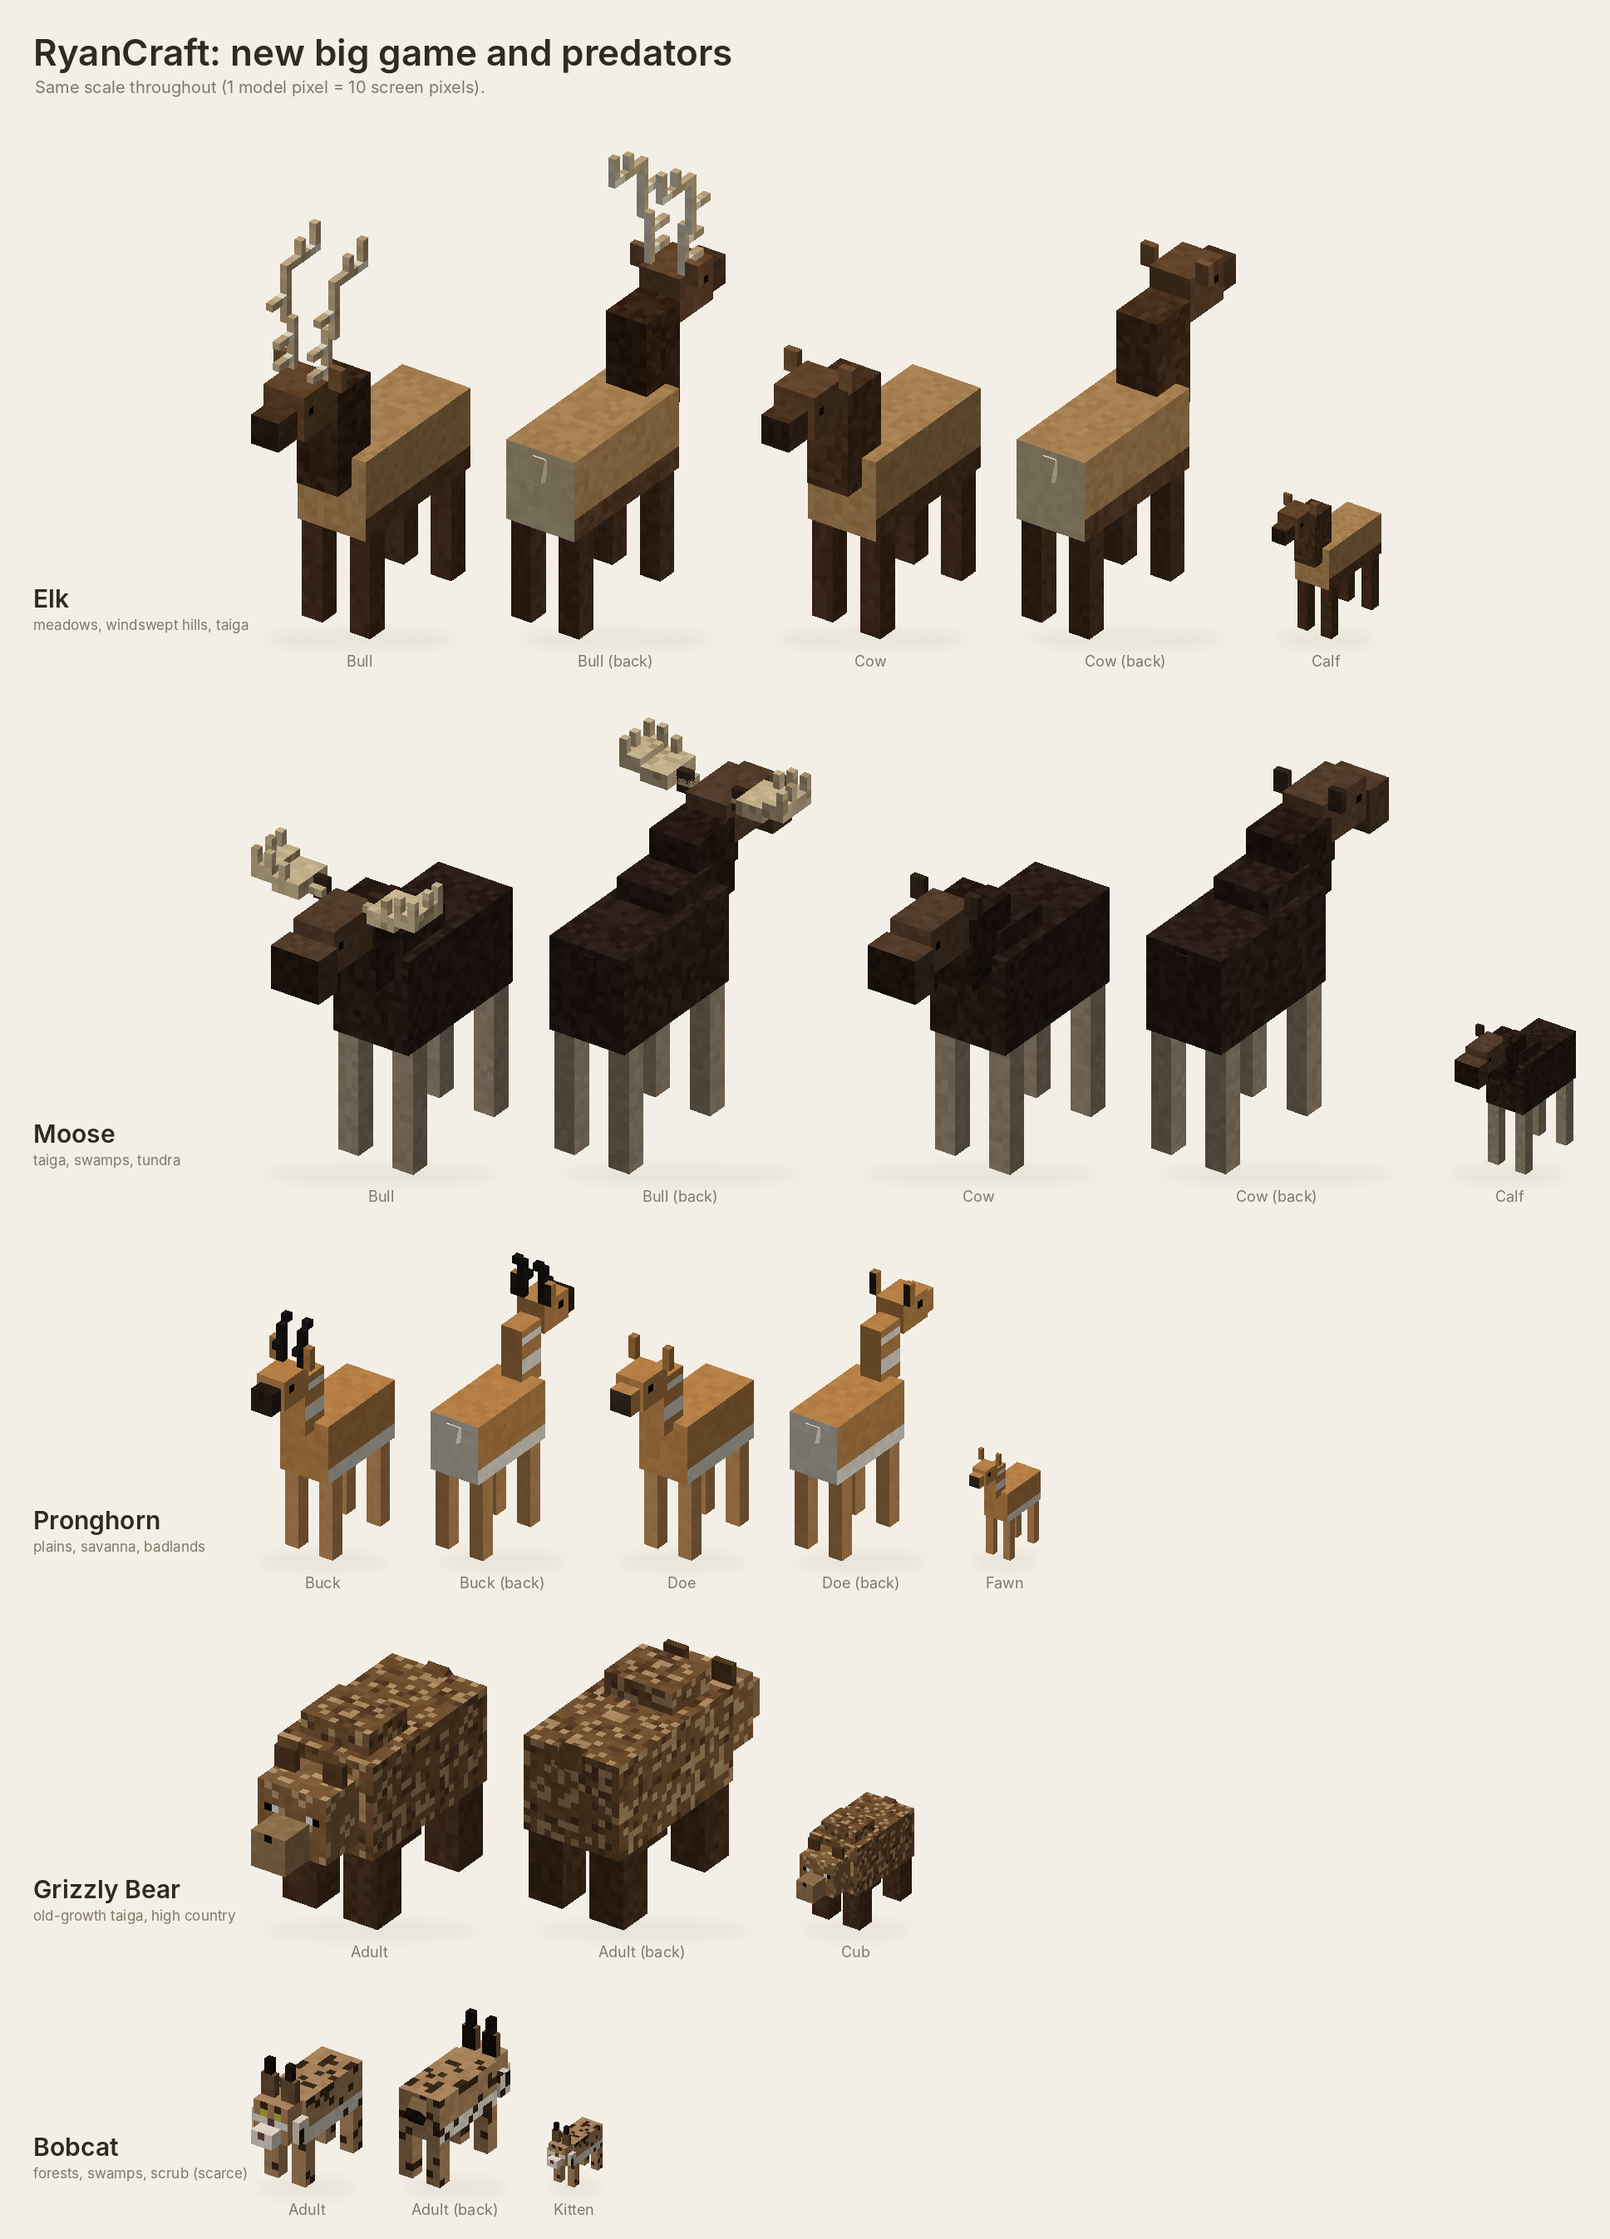
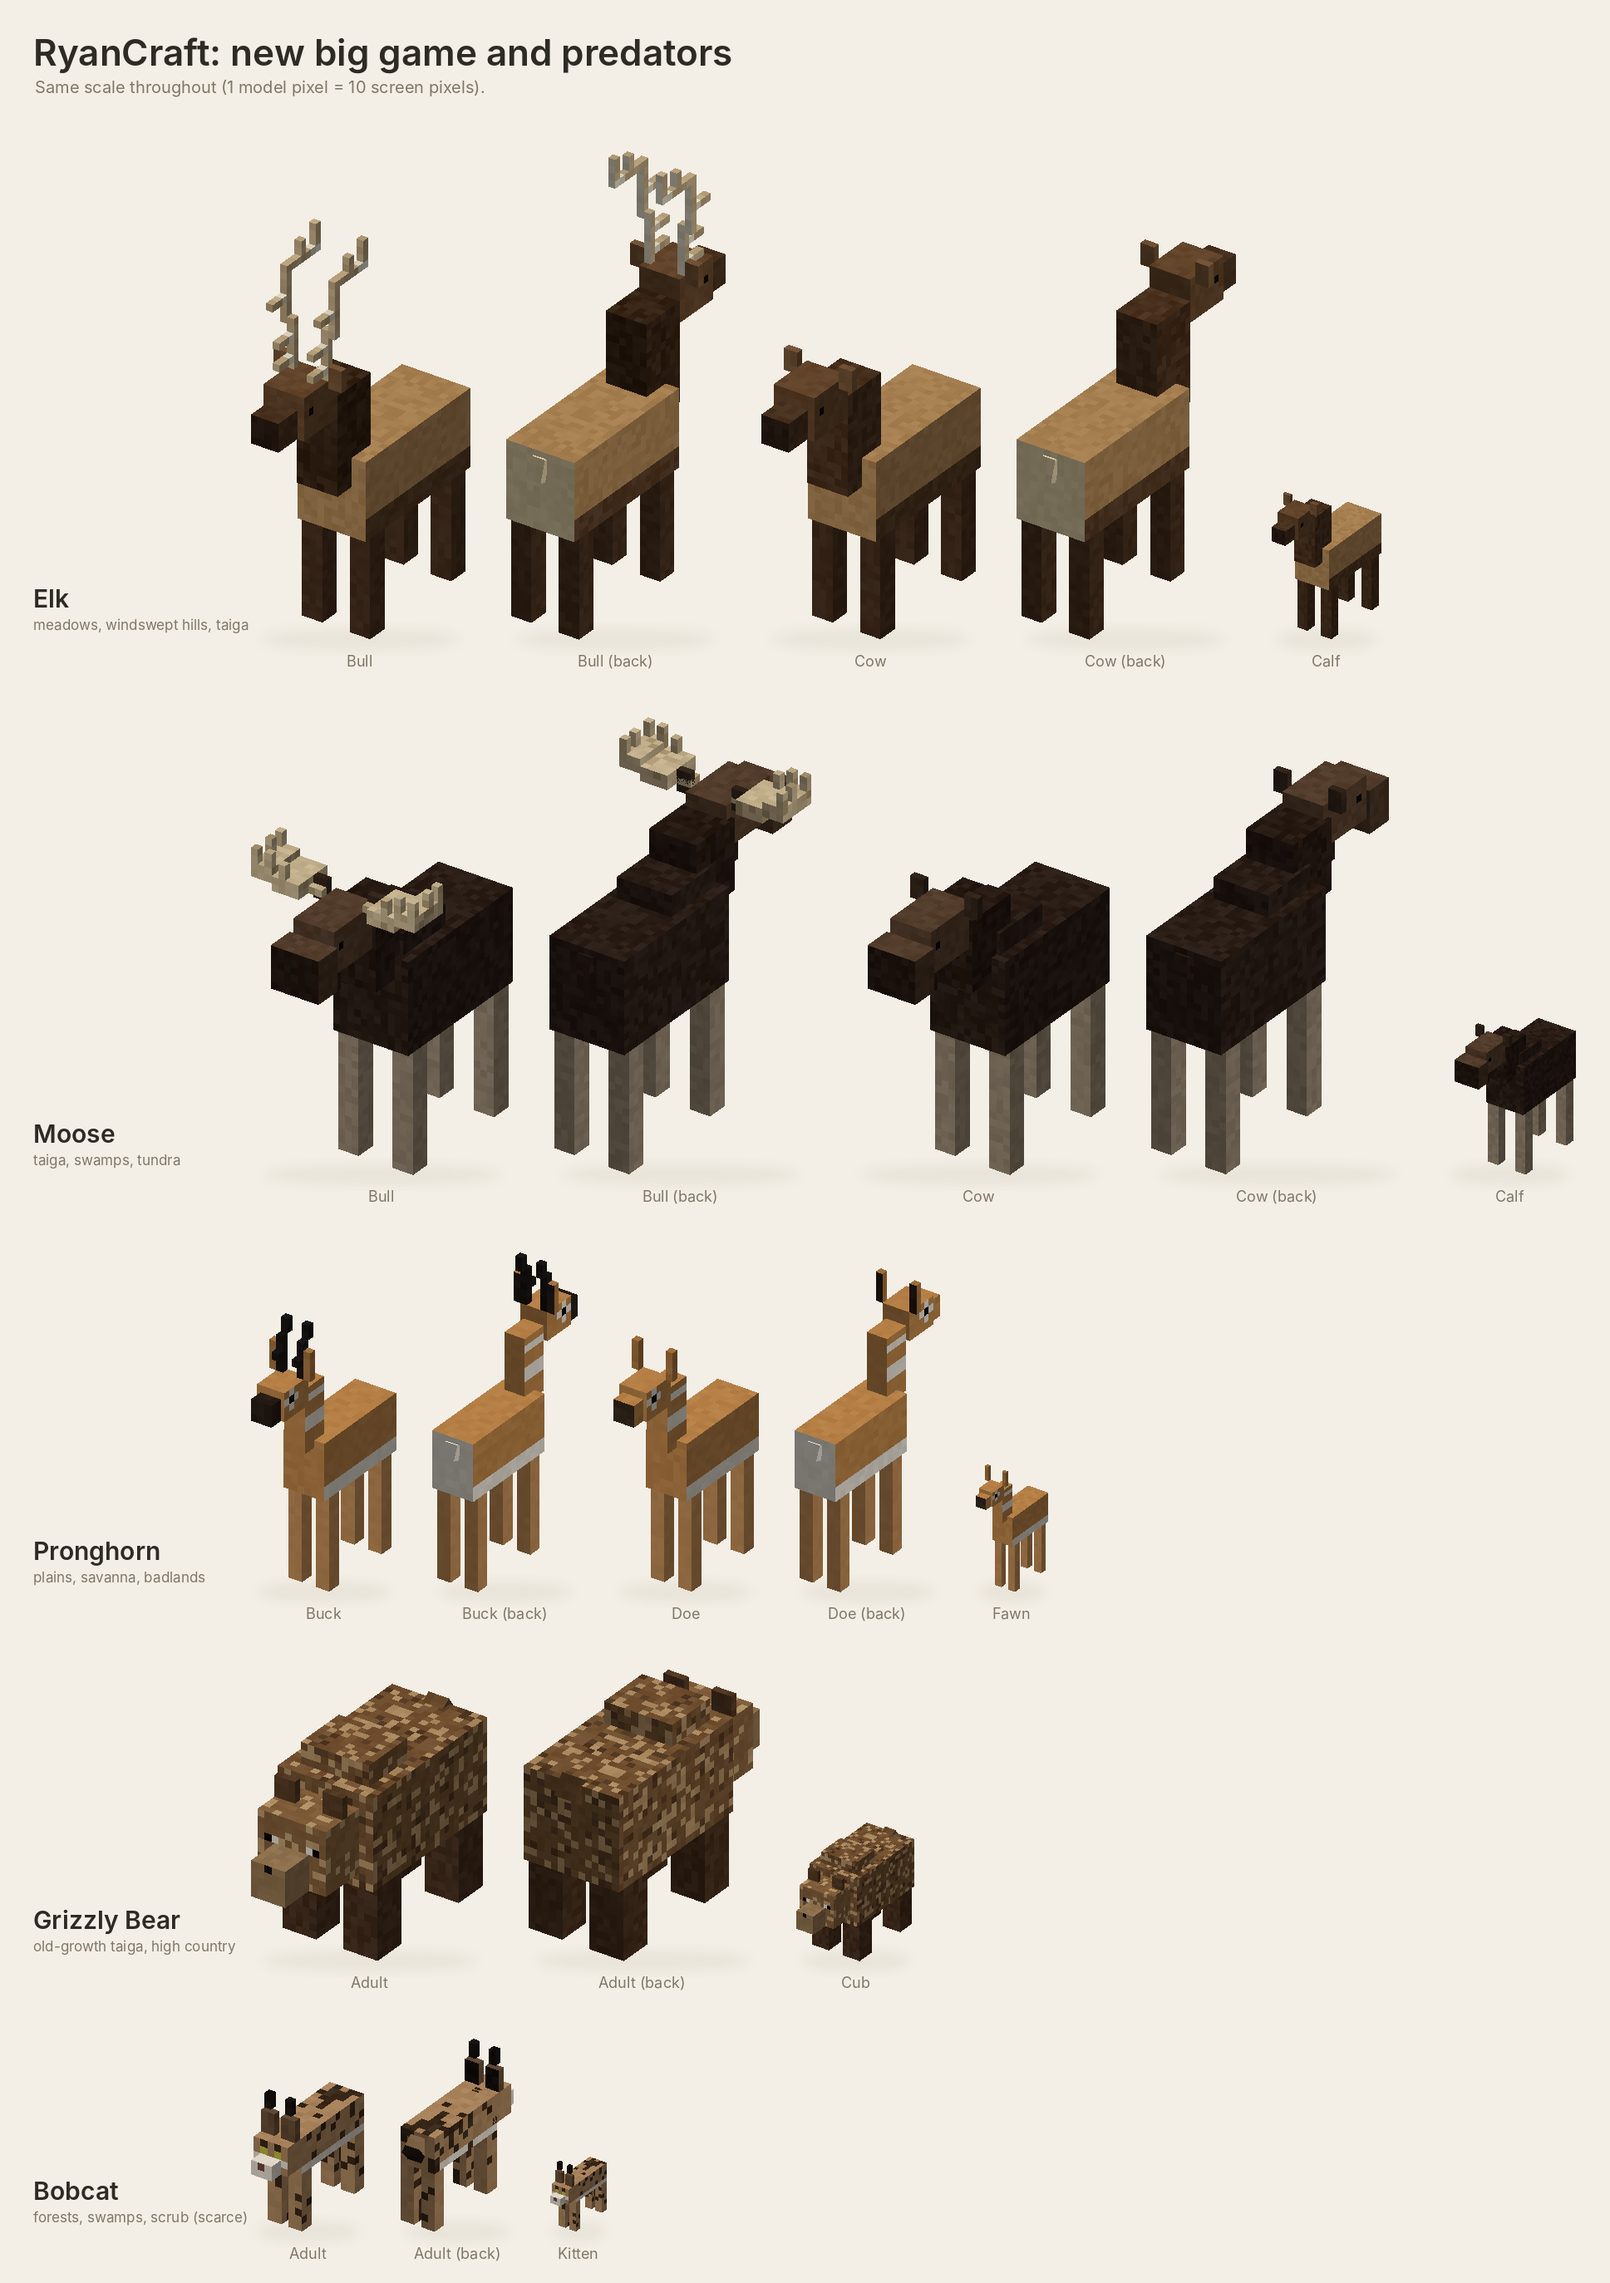
Pronghorn: racer build; bobcat: lanky build
Longer-legged pronghorn with tall ears and white-ringed eyes, and a slimmer,
long-legged bobcat. Hitboxes raised to match.

Claude-Session: https://claude.ai/code/session_01M5QtgiQGYPBXfdb72XCowG

diff --git a/tools/big_game.py b/tools/big_game.py
@@ -64,19 +64,18 @@ moose = cervid((11, 13, 22), (3, 17), -5,
 
 # ---- pronghorn: slim and fast, tan over white, white neck bands, short black pronged horns
 PRONG_HORN = [((-2, -8, -4), (1, 5, 1)), ((-2, -6, -5), (1, 1, 1)), ((-2, -9, -3), (1, 1, 1))]
-pronghorn = cervid((7, 8, 14), (2, 11), -6,
-                   neck=((-1.5, -1, -3), (3, 8, 4)), head=((-2, -3, -8), (4, 4, 5)), snout=((-1.5, -2, -10), (3, 3, 2)),
-                   ears=((-3, -6, -4), (1, 3, 1)), tail=((-1, 0, 0), (2, 2, 1), 0.4),
-                   extra_head=mirror(PRONG_HORN, "horn", "horn"))
+pronghorn = cervid((6, 8, 15), (2, 13), -7,          # "racer": long legs, tall ears
+                   neck=((-1.5, -1, -3), (3, 9, 4)), head=((-2, -3, -8), (4, 4, 5)), snout=((-1.5, -2, -10), (3, 3, 2)),
+                   ears=((-3, -7, -4), (1, 4, 1)), tail=((-1, 0, 0), (2, 2, 1), 0.4),
+                   extra_head=mirror(PRONG_HORN + [((-2, -10, -3), (1, 1, 1))], "horn", "horn"))
 
 # ---- grizzly: bigger than the black bear, with the shoulder hump and a dished face
 grizzly = quad((14, 13, 24), (5, 10), (10, 9, 8), snout=(5, 5, 5), ears=(3, 3), tail=(3, 3, 2, 0.6), head_up=-2)
 grizzly[0]["boxes"].append(box("hump", (-5, -9.5, -10), (10, 3, 8), "body"))
 
-# ---- bobcat: a lynx-faced wildcat with tufted ears, cheek ruffs and a stubby tail
-bobcat = quad((6, 6, 12), (2, 6), (5, 5, 4), snout=(3, 2, 2), ears=(2, 3), tail=(2, 2, 3, -0.7), leg_inset=0, extra_head=[
-    box("tuft_r", (-2, -7.5, -2.5), (1, 2, 1), "tuft"), box("tuft_l", (1, -7.5, -2.5), (1, 2, 1), "tuft", mirror=True),
-    box("ruff_r", (-3.5, -0.5, -3), (1, 3, 2), "ruff"), box("ruff_l", (2.5, -0.5, -3), (1, 3, 2), "ruff", mirror=True)])
+# ---- bobcat: a long-legged, lynx-faced wildcat with tufted ears and a stubby tail
+bobcat = quad((5, 5, 13), (2, 8), (5, 4, 4), snout=(3, 2, 2), ears=(2, 3), tail=(2, 2, 3, -0.7), leg_inset=0, extra_head=[   # "lanky"
+    box("tuft_r", (-2, -7.5, -2.5), (1, 2, 1), "tuft"), box("tuft_l", (1, -7.5, -2.5), (1, 2, 1), "tuft", mirror=True)])
 
 CLEAR = {"c": None}
 ELK = {"body": {"c": "#b48a58", "noise": 8, "back": "#e6d4ac", "belly": "#5e4028", "bottom": "#5e4028"},
@@ -89,7 +88,7 @@ MOOSE = {"body": {"c": "#2e2018", "noise": 8}, "head": {"c": "#5a4230", "noise":
          "tail": {"c": "#2e2018"}}
 PRONG = {"body": {"c": "#c48a4c", "noise": 6, "belly": "#f2ece0", "back": "#f2ece0"},
          "mane": {"c": "#c48a4c", "noise": 4, "side_rows": ["#c48a4c", "#f2ece0", "#c48a4c", "#c48a4c", "#f2ece0", "#f2ece0", "#c48a4c", "#c48a4c"]},
-         "head": {"c": "#c48a4c", "noise": 4, "side_eyes": "#0a0806", "eye_row": 1, "bottom": "#f2ece0"},
+         "head": {"c": "#c48a4c", "noise": 4, "side_eyes": "#0a0806", "eye_ring": "#f2ece0", "eye_row": 1, "bottom": "#f2ece0"},
          "ear": {"c": "#b07a40", "back": "#2a2018"}, "leg": {"c": "#c8925a", "noise": 4}, "tail": {"c": "#f2ece0"}}
 VARIANTS = {
     "elk": {"elk": dict(ELK, antler=CLEAR),

diff --git a/src/main/java/com/ryancraft/entity/RyanEntities.java b/src/main/java/com/ryancraft/entity/RyanEntities.java
@@ -50,11 +50,11 @@ public final class RyanEntities {
     public static final EntityType<Moose> MOOSE = register("moose",
             EntityType.Builder.of(Moose::new, MobCategory.CREATURE).sized(1.3f, 2.3f).clientTrackingRange(10));
     public static final EntityType<Pronghorn> PRONGHORN = register("pronghorn",
-            EntityType.Builder.of(Pronghorn::new, MobCategory.CREATURE).sized(0.8f, 1.4f).clientTrackingRange(10));
+            EntityType.Builder.of(Pronghorn::new, MobCategory.CREATURE).sized(0.8f, 1.6f).clientTrackingRange(10));
     public static final EntityType<GrizzlyBear> GRIZZLY_BEAR = register("grizzly_bear",
             EntityType.Builder.of(GrizzlyBear::new, MobCategory.CREATURE).sized(1.4f, 1.5f).clientTrackingRange(10));
     public static final EntityType<Bobcat> BOBCAT = register("bobcat",
-            EntityType.Builder.of(Bobcat::new, MobCategory.CREATURE).sized(0.6f, 0.65f).clientTrackingRange(10));
+            EntityType.Builder.of(Bobcat::new, MobCategory.CREATURE).sized(0.6f, 0.8f).clientTrackingRange(10));
     public static final EntityType<DeerMount> DEER_MOUNT = register("deer_skull_mount",
             EntityType.Builder.of(DeerMount::new, MobCategory.MISC).sized(0.5f, 0.9f).clientTrackingRange(10));
 
